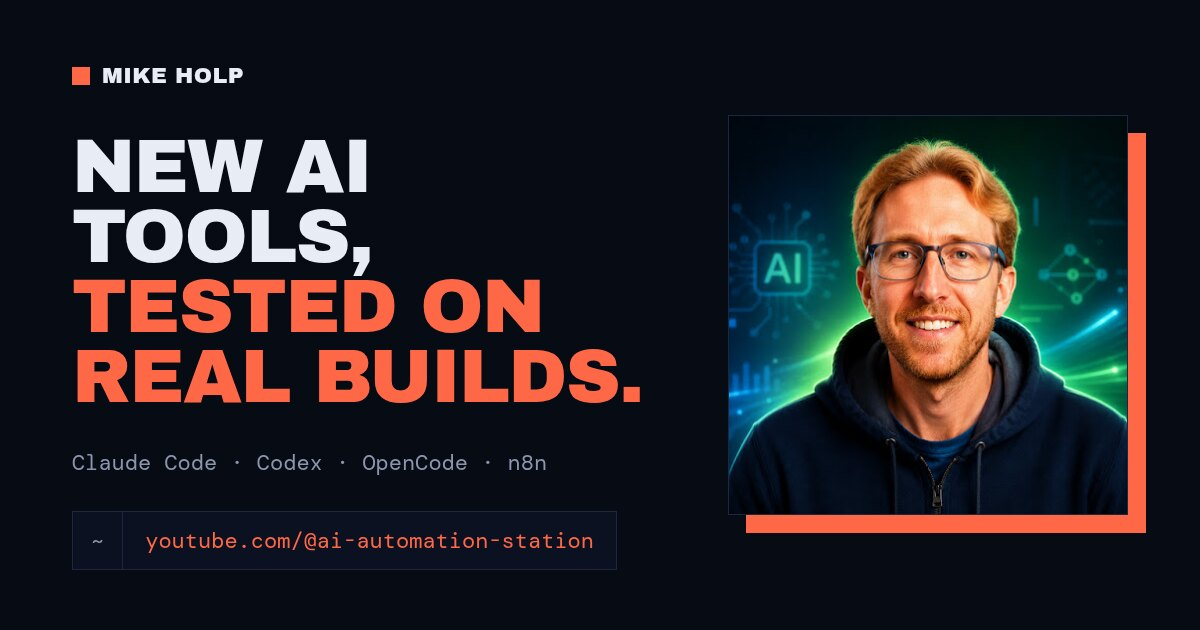
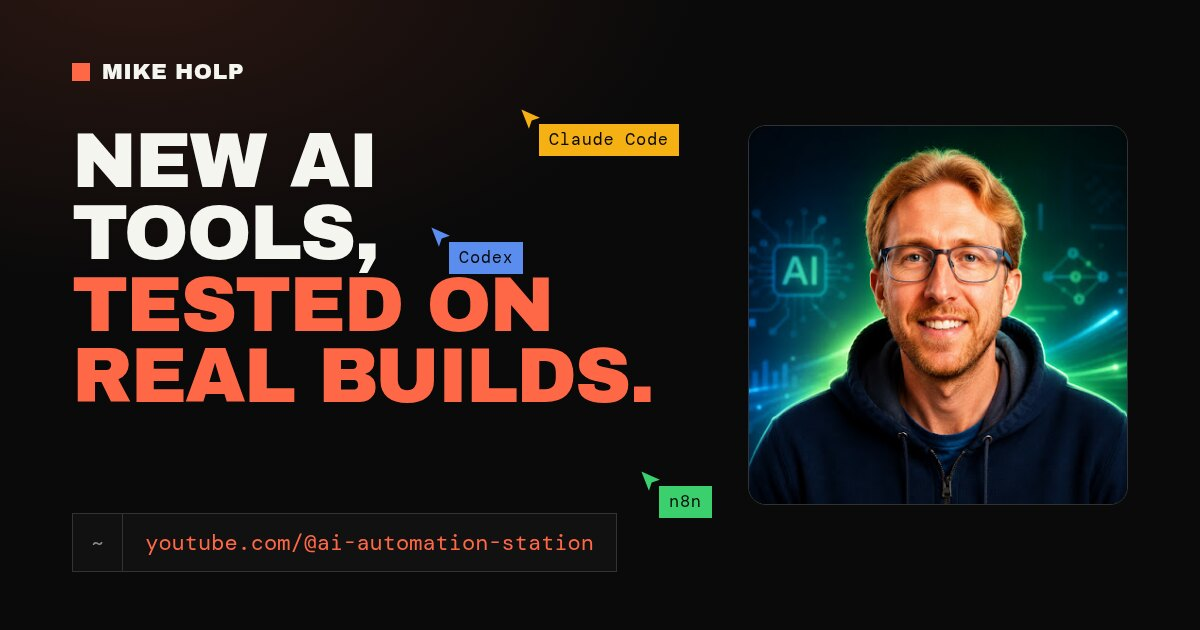
Bring the social card and legal pages onto the new black style
- og-card.jpg re-rendered on #0a0a0a with the hero's headline treatment
  and Claude Code, Codex, and n8n cursor tags; references carry ?v=2 so
  X, LinkedIn, and Facebook fetch it instead of the cached navy card.
  Alt text updated to match.
- Privacy and terms pages switch from the light theme to the site's
  black, DM Mono body, uppercase Archivo Black headings, and orange links.

diff --git a/public/privacy.html b/public/privacy.html
@@ -1,2 +1,2 @@
 <!doctype html>
-<html lang="en"><head><meta charset="UTF-8"><meta name="viewport" content="width=device-width,initial-scale=1"><meta name="robots" content="index,follow"><link rel="canonical" href="https://www.ai-automation-station.com/privacy.html"><title>Privacy Policy — AI Income Lab</title><meta name="description" content="How ai-automation-station.com handles analytics consent, YouTube embeds, email open tracking, call booking, and third-party services such as Skool."><meta property="og:type" content="website"><meta property="og:url" content="https://www.ai-automation-station.com/privacy.html"><meta property="og:title" content="Privacy Policy — AI Income Lab"><meta property="og:description" content="How ai-automation-station.com handles analytics consent, YouTube embeds, email open tracking, call booking, and third-party services such as Skool."><meta property="og:image" content="https://www.ai-automation-station.com/og-card.jpg"><meta name="twitter:card" content="summary_large_image"><style>body{max-width:760px;margin:0 auto;padding:48px 24px;color:#13234a;background:#f7f8fb;font:16px/1.7 system-ui,sans-serif}h1,h2{line-height:1.15}a{color:#b83218}small{color:#66708a}</style></head><body><a href="/">← AI Income Lab</a><h1>Privacy Policy</h1><small>Last updated October 7, 2026</small><p>This website uses analytics to understand page performance and campaign results. Google Analytics and Meta Pixel load only after you select “Allow analytics.” Vercel Analytics may provide privacy-focused site measurements separately.</p><h2>Information collected</h2><p>Analytics providers may process device, browser, referral, interaction, and campaign information. AI Income Lab does not collect payment details on this website. Membership checkout is completed on Skool and is governed by Skool’s policies.</p><h2>Your choices</h2><p>You may decline optional analytics when prompted. You can reopen “Privacy choices” from the website footer, change your selection, or clear this site’s storage in your browser. Your analytics choice is saved in your browser’s local storage so the prompt does not reappear on every visit.</p><h2>YouTube videos</h2><p>Video thumbnails on the home page load from YouTube’s image servers, which receive your IP address and browser details. The YouTube player loads only when you press play, and it uses YouTube’s privacy-enhanced mode (youtube-nocookie.com).</p><h2>Email open tracking</h2><p>Some emails from AI Income Lab and related projects, such as TubeAnalytics and VisiScan, include a small invisible image served from this website. When your email app loads that image, we record a code that identifies the email, the time it was opened, and your email app’s user agent, and store them in Airtable to see which emails were opened. Your IP address may appear in our hosting provider’s request logs but is not saved with that record. To prevent this, turn off automatic image loading in your email app.</p><h2>Booking a call</h2><p>The booking calendar loads from Cal.com only when you choose to book a call. The name, email, and notes you enter go to Cal.com to schedule the call and are governed by Cal.com’s privacy policy.</p><h2>Third-party services</h2><p>This site may use Google Analytics, Meta Pixel, Vercel Analytics, YouTube, Airtable, Cal.com, and Skool. Review each provider’s privacy terms for details about their processing.</p><h2>Contact</h2><p>For privacy questions, contact the community administrator through <a href="https://www.skool.com/ai-automation-station-7346/about">AI Income Lab on Skool</a>.</p></body></html>
+<html lang="en"><head><meta charset="UTF-8"><meta name="viewport" content="width=device-width,initial-scale=1"><meta name="robots" content="index,follow"><link rel="canonical" href="https://www.ai-automation-station.com/privacy.html"><title>Privacy Policy — AI Income Lab</title><meta name="description" content="How ai-automation-station.com handles analytics consent, YouTube embeds, email open tracking, call booking, and third-party services such as Skool."><meta property="og:type" content="website"><meta property="og:url" content="https://www.ai-automation-station.com/privacy.html"><meta property="og:title" content="Privacy Policy — AI Income Lab"><meta property="og:description" content="How ai-automation-station.com handles analytics consent, YouTube embeds, email open tracking, call booking, and third-party services such as Skool."><meta property="og:image" content="https://www.ai-automation-station.com/og-card.jpg?v=2"><meta name="twitter:card" content="summary_large_image"><meta name="theme-color" content="#0a0a0a"><style>@font-face{font-family:'Archivo Black';font-display:swap;src:url('/fonts/archivo-black.woff2') format('woff2')}@font-face{font-family:'DM Mono';font-display:swap;src:url('/fonts/dm-mono.woff2') format('woff2')}body{max-width:680px;margin:0 auto;padding:56px 24px 96px;color:#b3b3ab;background:radial-gradient(900px 500px at 10% -10%,rgb(255 104 70/.08),transparent 60%),#0a0a0a;font:15px/1.8 'DM Mono',ui-monospace,monospace;-webkit-font-smoothing:antialiased}body>a:first-child{color:#8c8c86;font-size:11px;letter-spacing:.18em;text-transform:uppercase;text-decoration:none}body>a:first-child:hover{color:#f5f5f0}h1,h2{color:#f5f5f0;font-family:'Archivo Black',sans-serif;font-weight:400;line-height:1.05;letter-spacing:-.01em;text-transform:uppercase}h1{margin:40px 0 10px;font-size:clamp(36px,7vw,56px)}h2{margin:44px 0 10px;font-size:20px}a{color:#ff6846}small{color:#8c8c86;font-size:12px}:focus-visible{outline:2px solid #ff6846;outline-offset:3px}</style></head><body><a href="/">← AI Income Lab</a><h1>Privacy Policy</h1><small>Last updated October 7, 2026</small><p>This website uses analytics to understand page performance and campaign results. Google Analytics and Meta Pixel load only after you select “Allow analytics.” Vercel Analytics may provide privacy-focused site measurements separately.</p><h2>Information collected</h2><p>Analytics providers may process device, browser, referral, interaction, and campaign information. AI Income Lab does not collect payment details on this website. Membership checkout is completed on Skool and is governed by Skool’s policies.</p><h2>Your choices</h2><p>You may decline optional analytics when prompted. You can reopen “Privacy choices” from the website footer, change your selection, or clear this site’s storage in your browser. Your analytics choice is saved in your browser’s local storage so the prompt does not reappear on every visit.</p><h2>YouTube videos</h2><p>Video thumbnails on the home page load from YouTube’s image servers, which receive your IP address and browser details. The YouTube player loads only when you press play, and it uses YouTube’s privacy-enhanced mode (youtube-nocookie.com).</p><h2>Email open tracking</h2><p>Some emails from AI Income Lab and related projects, such as TubeAnalytics and VisiScan, include a small invisible image served from this website. When your email app loads that image, we record a code that identifies the email, the time it was opened, and your email app’s user agent, and store them in Airtable to see which emails were opened. Your IP address may appear in our hosting provider’s request logs but is not saved with that record. To prevent this, turn off automatic image loading in your email app.</p><h2>Booking a call</h2><p>The booking calendar loads from Cal.com only when you choose to book a call. The name, email, and notes you enter go to Cal.com to schedule the call and are governed by Cal.com’s privacy policy.</p><h2>Third-party services</h2><p>This site may use Google Analytics, Meta Pixel, Vercel Analytics, YouTube, Airtable, Cal.com, and Skool. Review each provider’s privacy terms for details about their processing.</p><h2>Contact</h2><p>For privacy questions, contact the community administrator through <a href="https://www.skool.com/ai-automation-station-7346/about">AI Income Lab on Skool</a>.</p></body></html>

diff --git a/public/terms.html b/public/terms.html
@@ -1,2 +1,2 @@
 <!doctype html>
-<html lang="en"><head><meta charset="UTF-8"><meta name="viewport" content="width=device-width,initial-scale=1"><meta name="robots" content="index,follow"><link rel="canonical" href="https://www.ai-automation-station.com/terms.html"><title>Terms — AI Income Lab</title><meta name="description" content="Terms for using ai-automation-station.com and joining AI Income Lab memberships on Skool: billing, cancellation, tutorials, and links to other sites."><meta property="og:type" content="website"><meta property="og:url" content="https://www.ai-automation-station.com/terms.html"><meta property="og:title" content="Terms — AI Income Lab"><meta property="og:description" content="Terms for using ai-automation-station.com and joining AI Income Lab memberships on Skool: billing, cancellation, tutorials, and links to other sites."><meta property="og:image" content="https://www.ai-automation-station.com/og-card.jpg"><meta name="twitter:card" content="summary_large_image"><style>body{max-width:760px;margin:0 auto;padding:48px 24px;color:#13234a;background:#f7f8fb;font:16px/1.7 system-ui,sans-serif}h1,h2{line-height:1.15}a{color:#b83218}small{color:#66708a}</style></head><body><a href="/">← AI Income Lab</a><h1>Terms</h1><small>Last updated October 6, 2026</small><p>This website describes AI Income Lab memberships and links to Skool for enrollment. Membership access, billing, cancellation, and community use are completed through Skool and are also subject to Skool’s terms.</p><h2>Memberships</h2><p>Plans are billed monthly at the price shown during checkout. Available plans and included resources may change. Review the final plan details on Skool before purchasing.</p><h2>Cancellation</h2><p>You may cancel a monthly membership before the next billing period through your Skool account. Access continues according to the terms displayed during checkout.</p><h2>Educational information</h2><p>Training and community content are educational. Results depend on your implementation, market, and other factors; no specific income result is guaranteed. Videos and tool reviews reflect testing at the time of recording; AI tools, pricing, and features change often, so check current details before relying on them.</p><h2>Links to other sites</h2><p>This website links to YouTube, Skool, TubeAnalytics, VisiScan, and other sites. Each is governed by its own terms and privacy policy, and AI Income Lab is not responsible for their content or availability.</p><h2>Contact</h2><p>For membership questions, contact the community administrator through <a href="https://www.skool.com/ai-automation-station-7346/about">AI Income Lab on Skool</a>.</p></body></html>
+<html lang="en"><head><meta charset="UTF-8"><meta name="viewport" content="width=device-width,initial-scale=1"><meta name="robots" content="index,follow"><link rel="canonical" href="https://www.ai-automation-station.com/terms.html"><title>Terms — AI Income Lab</title><meta name="description" content="Terms for using ai-automation-station.com and joining AI Income Lab memberships on Skool: billing, cancellation, tutorials, and links to other sites."><meta property="og:type" content="website"><meta property="og:url" content="https://www.ai-automation-station.com/terms.html"><meta property="og:title" content="Terms — AI Income Lab"><meta property="og:description" content="Terms for using ai-automation-station.com and joining AI Income Lab memberships on Skool: billing, cancellation, tutorials, and links to other sites."><meta property="og:image" content="https://www.ai-automation-station.com/og-card.jpg?v=2"><meta name="twitter:card" content="summary_large_image"><meta name="theme-color" content="#0a0a0a"><style>@font-face{font-family:'Archivo Black';font-display:swap;src:url('/fonts/archivo-black.woff2') format('woff2')}@font-face{font-family:'DM Mono';font-display:swap;src:url('/fonts/dm-mono.woff2') format('woff2')}body{max-width:680px;margin:0 auto;padding:56px 24px 96px;color:#b3b3ab;background:radial-gradient(900px 500px at 10% -10%,rgb(255 104 70/.08),transparent 60%),#0a0a0a;font:15px/1.8 'DM Mono',ui-monospace,monospace;-webkit-font-smoothing:antialiased}body>a:first-child{color:#8c8c86;font-size:11px;letter-spacing:.18em;text-transform:uppercase;text-decoration:none}body>a:first-child:hover{color:#f5f5f0}h1,h2{color:#f5f5f0;font-family:'Archivo Black',sans-serif;font-weight:400;line-height:1.05;letter-spacing:-.01em;text-transform:uppercase}h1{margin:40px 0 10px;font-size:clamp(36px,7vw,56px)}h2{margin:44px 0 10px;font-size:20px}a{color:#ff6846}small{color:#8c8c86;font-size:12px}:focus-visible{outline:2px solid #ff6846;outline-offset:3px}</style></head><body><a href="/">← AI Income Lab</a><h1>Terms</h1><small>Last updated October 6, 2026</small><p>This website describes AI Income Lab memberships and links to Skool for enrollment. Membership access, billing, cancellation, and community use are completed through Skool and are also subject to Skool’s terms.</p><h2>Memberships</h2><p>Plans are billed monthly at the price shown during checkout. Available plans and included resources may change. Review the final plan details on Skool before purchasing.</p><h2>Cancellation</h2><p>You may cancel a monthly membership before the next billing period through your Skool account. Access continues according to the terms displayed during checkout.</p><h2>Educational information</h2><p>Training and community content are educational. Results depend on your implementation, market, and other factors; no specific income result is guaranteed. Videos and tool reviews reflect testing at the time of recording; AI tools, pricing, and features change often, so check current details before relying on them.</p><h2>Links to other sites</h2><p>This website links to YouTube, Skool, TubeAnalytics, VisiScan, and other sites. Each is governed by its own terms and privacy policy, and AI Income Lab is not responsible for their content or availability.</p><h2>Contact</h2><p>For membership questions, contact the community administrator through <a href="https://www.skool.com/ai-automation-station-7346/about">AI Income Lab on Skool</a>.</p></body></html>

diff --git a/index.html b/index.html
@@ -16,15 +16,15 @@
     <meta property="og:url" content="https://www.ai-automation-station.com/" />
     <meta property="og:title" content="Mike Holp: New AI Tools, Tested on Real Builds" />
     <meta property="og:description" content="AI tools tested on real builds, plus the products and community Mike Holp runs." />
-    <meta property="og:image" content="https://www.ai-automation-station.com/og-card.jpg" />
+    <meta property="og:image" content="https://www.ai-automation-station.com/og-card.jpg?v=2" />
     <meta property="og:image:width" content="1200" />
     <meta property="og:image:height" content="630" />
-    <meta property="og:image:alt" content="Mike Holp: new AI tools, tested on real builds. Claude Code, Codex, OpenCode, n8n." />
+    <meta property="og:image:alt" content="Mike Holp beside the headline New AI tools, tested on real builds, with Claude Code, Codex, and n8n cursor tags." />
     <meta name="twitter:card" content="summary_large_image" />
     <meta name="twitter:title" content="Mike Holp: New AI Tools, Tested on Real Builds" />
     <meta name="twitter:description" content="AI tools tested on real builds, plus the products and community Mike Holp runs." />
-    <meta name="twitter:image" content="https://www.ai-automation-station.com/og-card.jpg" />
-    <meta name="twitter:image:alt" content="Mike Holp: new AI tools, tested on real builds. Claude Code, Codex, OpenCode, n8n." />
+    <meta name="twitter:image" content="https://www.ai-automation-station.com/og-card.jpg?v=2" />
+    <meta name="twitter:image:alt" content="Mike Holp beside the headline New AI tools, tested on real builds, with Claude Code, Codex, and n8n cursor tags." />
     <script type="application/ld+json">
       {
         "@context": "https://schema.org",

diff --git a/src/archive.js b/src/archive.js
@@ -39,7 +39,7 @@ export function renderArchive(videos) {
 <meta property="og:url" content="${site}/videos">
 <meta property="og:title" content="Every video: AI tools tested on real builds">
 <meta property="og:description" content="${escape(description)}">
-<meta property="og:image" content="${site}/og-card.jpg">
+<meta property="og:image" content="${site}/og-card.jpg?v=2">
 <meta name="twitter:card" content="summary_large_image">
 <style>
 @font-face { font-family: 'Archivo Black'; font-display: swap; src: url('/fonts/archivo-black.woff2') format('woff2'); }
